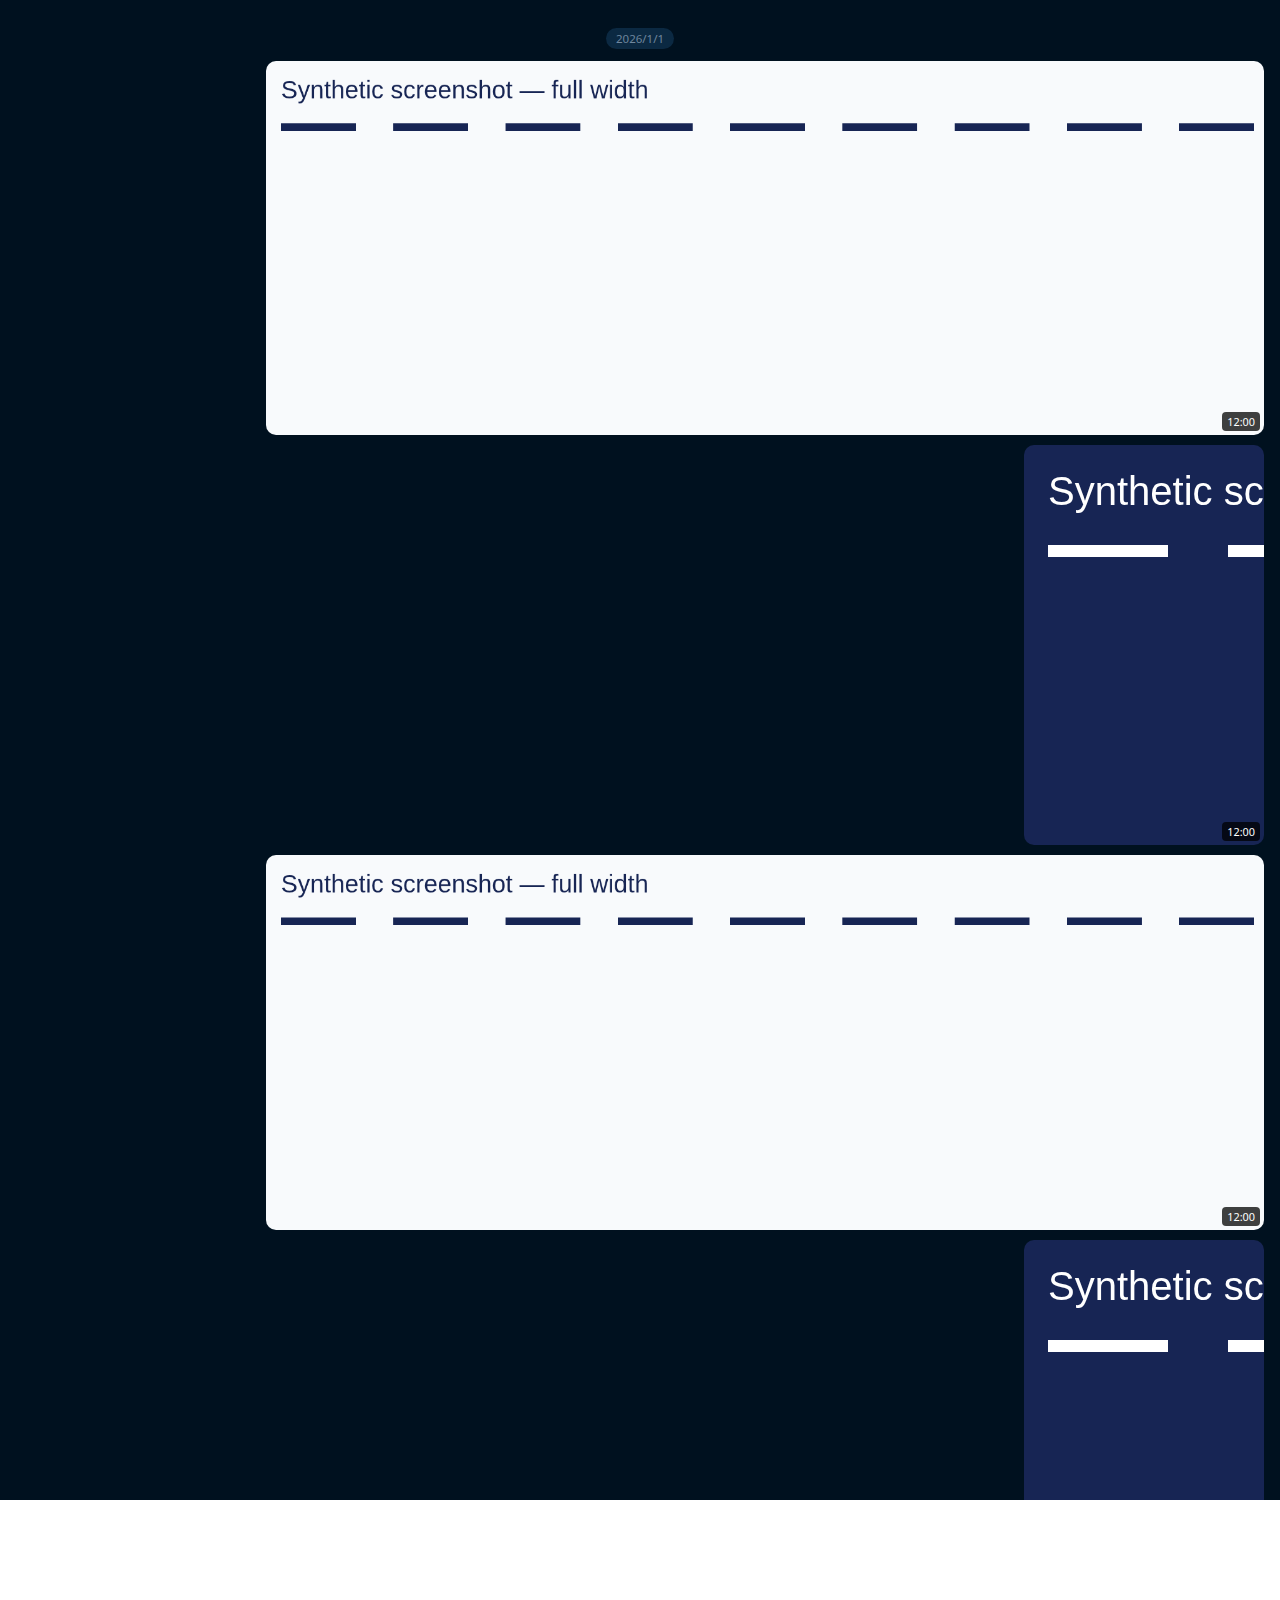
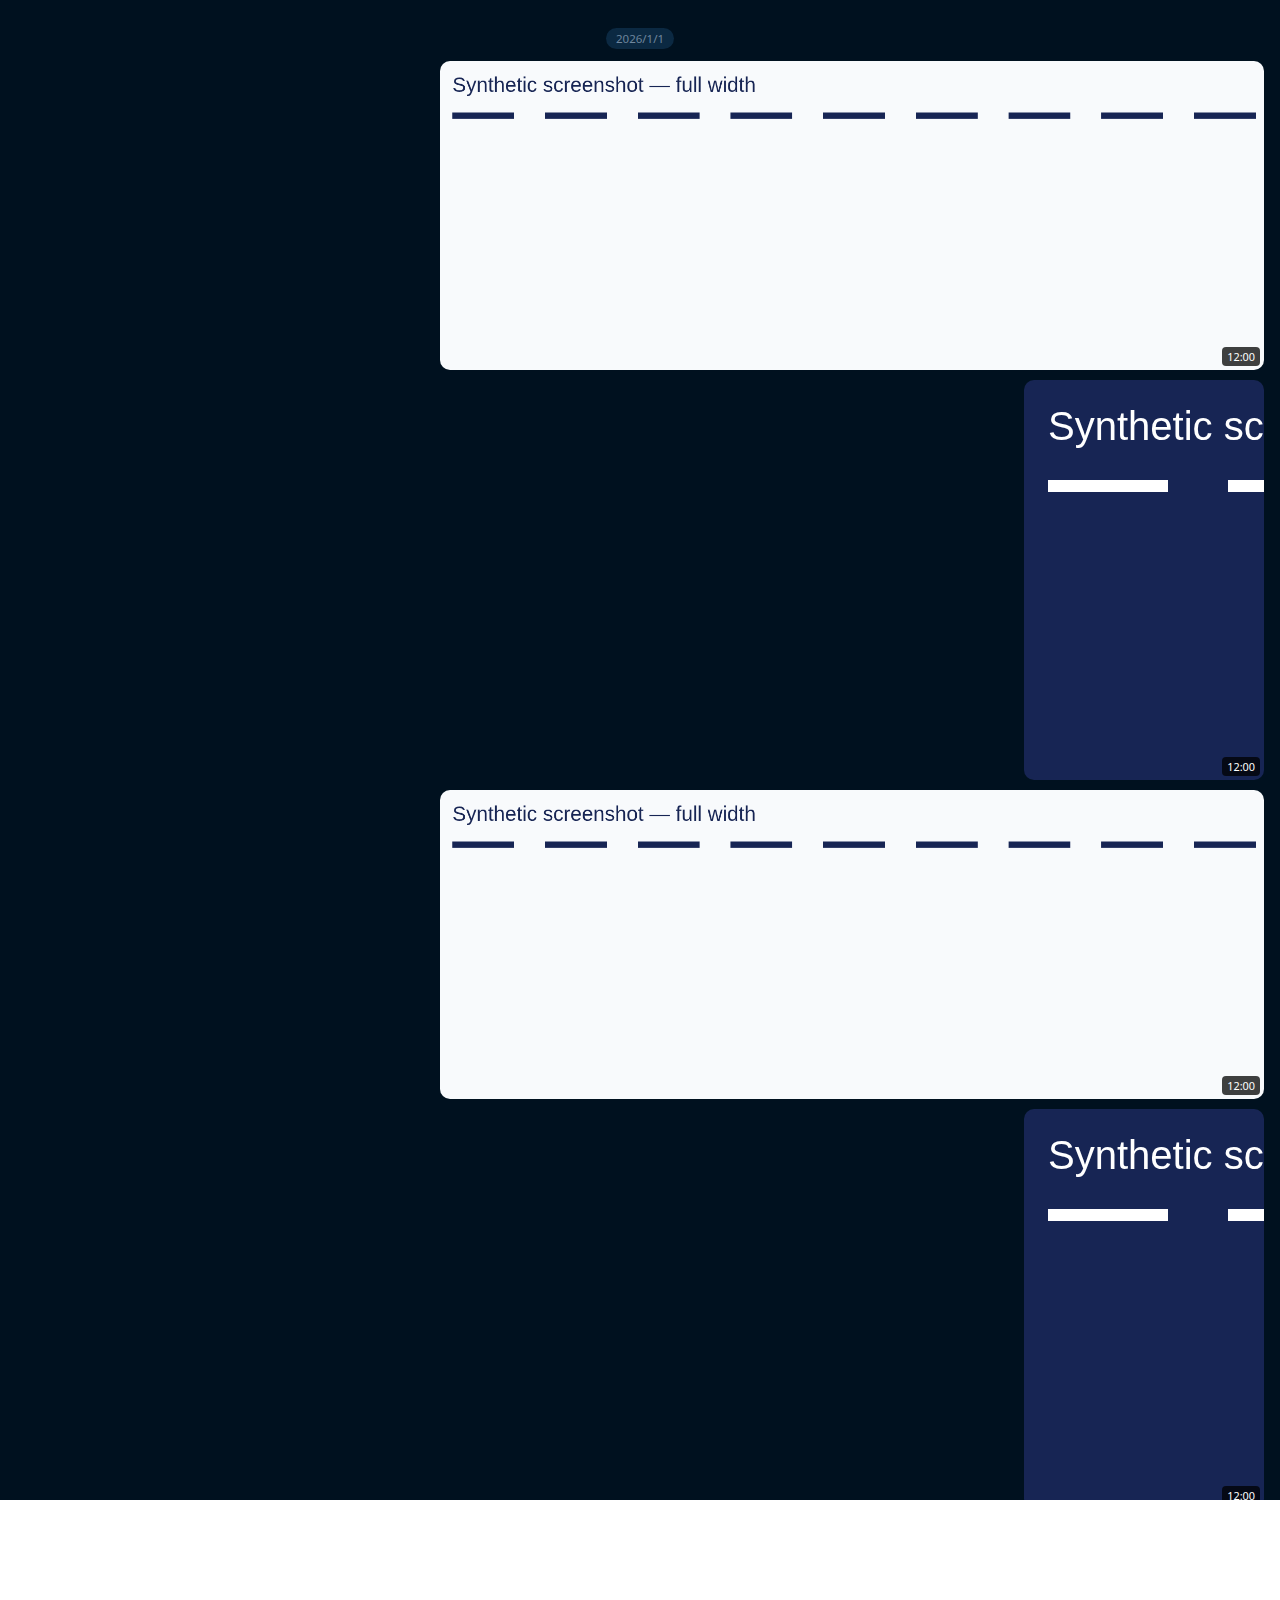
fix(ui): preserve desktop image sizing
- Retain the desktop preview limit and check the phone gutter in the sizing fixture.

diff --git a/packages/ui/src/ConversationImages.css b/packages/ui/src/ConversationImages.css
@@ -3,7 +3,7 @@
 .history-message > .history-bubble:has(> .conversation-images) { width:fit-content; max-width:min(100%,var(--preview-width)); padding:0; background:transparent; }
 .history-bubble:has(> .conversation-images) > .message-markdown:not(:empty) { width:fit-content; max-width:100%; padding:8px 12px; border-radius:var(--r-conversation); background:var(--conversation-agent-bubble); }
 .is-user > .history-bubble:has(> .conversation-images) > .message-markdown:not(:empty) { background:var(--conversation-user-bubble); }
-.history-message.is-user:has(.conversation-images) { --preview-width:80cqw; }
+.history-message.is-user .conversation-images { justify-items:end; }
 .history-image-caption { display:flex; align-items:flex-end; justify-content:flex-end; gap:6px; }
 .history-image-caption > .message-markdown { width:fit-content; padding:8px 12px; border-radius:var(--r-conversation); background:var(--conversation-user-bubble); }
 .history-image-caption > time { flex:none; padding-bottom:2px; color:var(--conversation-meta); font-size:var(--text-2xs); font-variant-numeric:tabular-nums; }
@@ -13,6 +13,7 @@
 .history-bubble.is-image-only > time { position:absolute; right:4px; bottom:4px; padding:2px 5px; border-radius:4px; color:#fff; background:rgba(0,0,0,.75); font-size:var(--text-2xs); font-variant-numeric:tabular-nums; pointer-events:none; }
 @container (max-width:600px) {
   .history-message:not(.is-user) .history-bubble:has(> .conversation-images) { --preview-width:100cqw; }
+  .history-message.is-user .history-bubble:has(> .conversation-images) { --preview-width:80cqw; }
 }
 .conversation-images { display:grid; grid-template-columns:minmax(0,1fr); align-items:start; gap:8px; margin-top:6px; min-width:0; }
 .conversation-images:has(> .conversation-image-thumbnail:nth-child(2)) { grid-template-columns:repeat(2,minmax(0,1fr)); }

diff --git a/packages/ui/test/conversationImageSizing.browser.test.ts b/packages/ui/test/conversationImageSizing.browser.test.ts
@@ -104,8 +104,8 @@ test("image previews fit column, natural dimensions and viewport without croppin
           assert.ok(box.h<=550.1,"height fits 55% of the viewport");
           assert.ok(Math.abs(box.image.w-box.w)<1 && Math.abs(box.image.h-box.h)<1,"no padded frame or crop");
         }
-        assert.ok(wide.w>measured.column.w*(width<=600?0.8:0.6),"wide screenshot fills the intended column share");
-        assert.ok(wide.w<measured.column.w*(width<=600?1:0.7),"desktop leaves column breathing room");
+        assert.ok(wide.w>measured.column.w*(width<=600?0.75:0.6),"wide screenshot fills the intended column share");
+        assert.ok(wide.w<measured.column.w*(width<=600?0.85:0.7),"desktop leaves column breathing room");
         assert.ok(portrait.h>portrait.w && tall.h>tall.w,"portrait and tall remain upright");
         assert.equal(tiny.w,32);assert.equal(tiny.h,24);
         assert.ok(Math.abs(tall.h-550)<1,"very tall image reaches the height cap");
